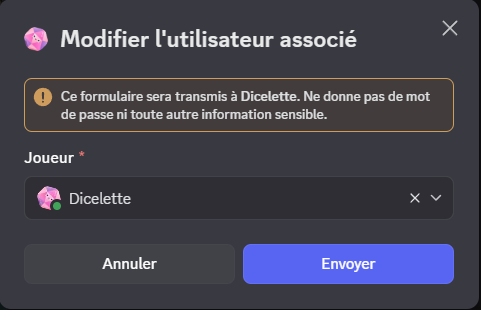
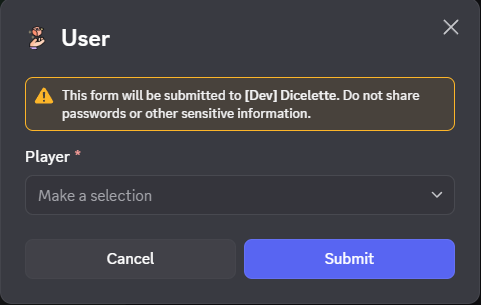
feat: update user data editing documentation and improve section titles

diff --git a/en/docusaurus-plugin-content-docs/current/sheet/edits/edit.md b/en/docusaurus-plugin-content-docs/current/sheet/edits/edit.md
@@ -2,9 +2,7 @@
 title: Edition
 sidebar_position: 1
 ---
-
-
-### Edit user data
+### Edit a character's sheet
 
 ![](../../assets/edit/user.png)
 Each tree commands will open a modal to edit the corresponding data.
@@ -13,7 +11,7 @@ If you are using an old version of the bot, you will have to use the commands.
 
 To add the new button.
 
-#### Editing the avatar image
+### Editing the avatar image
 
 ![edit image](../../assets/edit/image.png)
 
@@ -38,7 +36,7 @@ If both URL and file are provided, the file will take priority.
 
 Even as the two options are optional, at least one of them must be provided, or an error will be thrown.
 
-#### Rename a character
+### Rename a character
 ![rename](../../assets/edit/rename.png)
 
 As the command, it doesn't allow duplicate character name. Each character must have different name, or error will be thrown.
@@ -50,7 +48,7 @@ As the command, it doesn't allow duplicate character name. Each character must h
 - `*character`: Name of the character to edit. If not specified, the default character will be edited.
 :::
 
-#### Move to another user
+### Transfert to another user
 
 ![move](../../assets/edit/move.png)
 
@@ -62,6 +60,19 @@ It will **move** the character to another user, deleting the one on the old user
 - `@old_user`: User to move the character from.
 - `*character`: Name of the character to move. If not specified, the default character will be moved.
 :::
+
+### Move the sheet
+
+![move_sheet](../../assets/edit/move_to.png)
+
+:::info
+Only moderators can move a character sheet from a channel to another.
+:::
+
+To move a sheet to another channel, simply select the destination channel from the drop-down menu.
+
+After the move, the previous message will be deleted.
+
 
 ### Editing Statistics
 